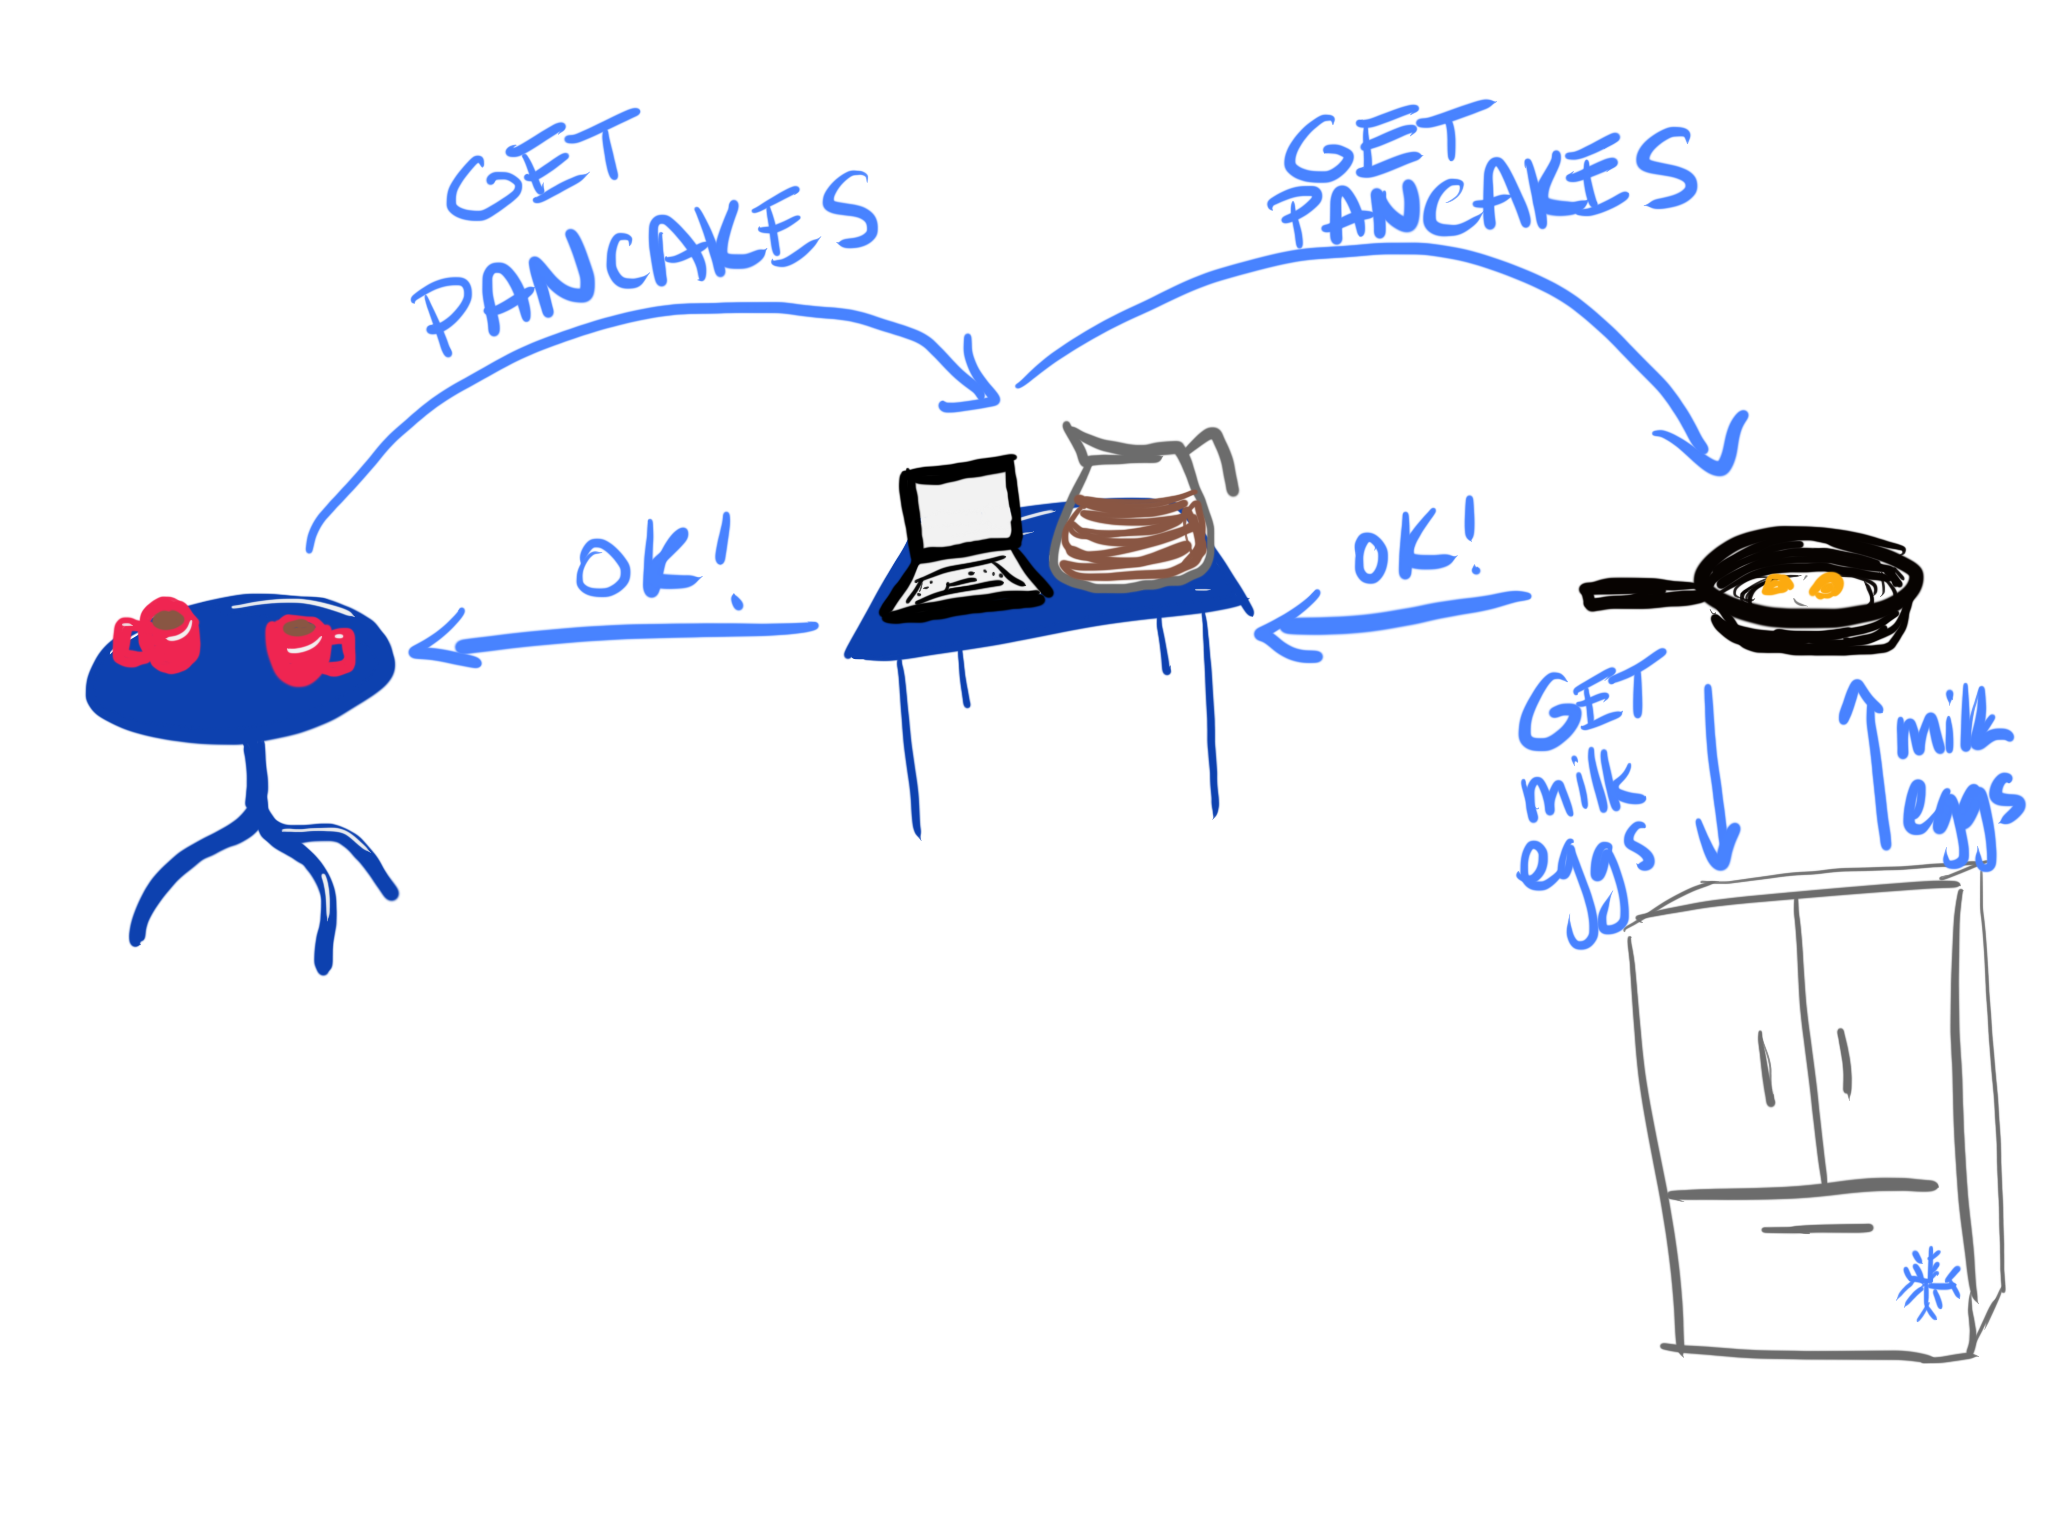
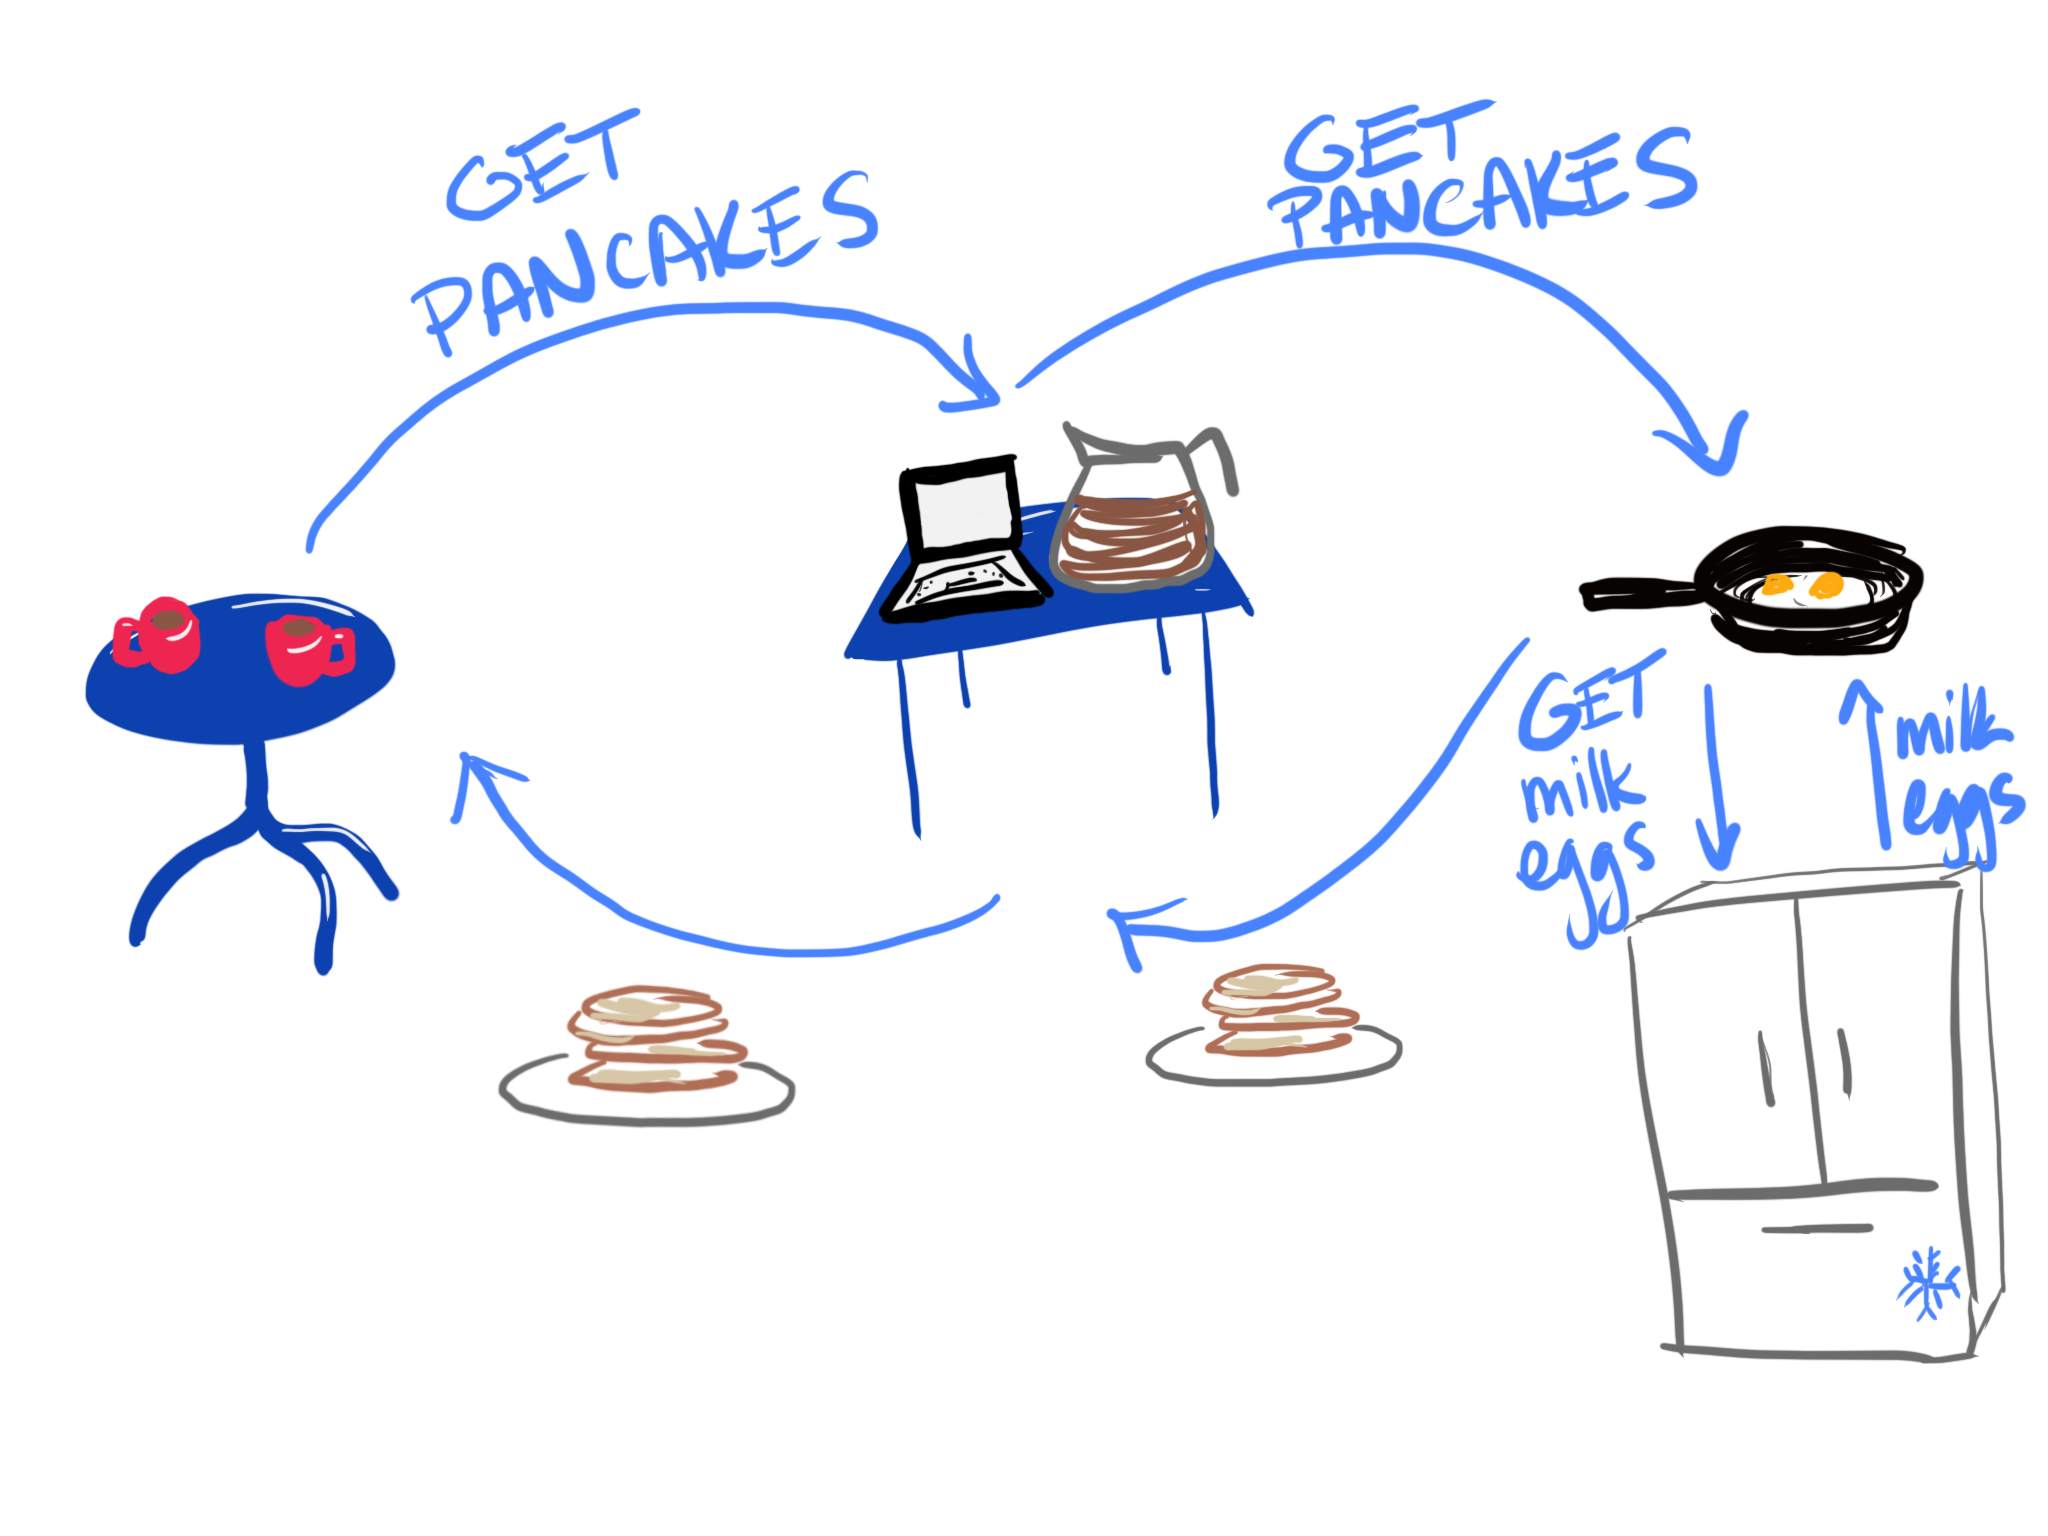
First draft

diff --git a/style.css b/style.css
@@ -491,6 +491,7 @@ table.fixed-two-column td {
 
 li.no-bullet {
   list-style: none;
+  text-indent: -49px;
 }
 
 .dark-highlighter {

diff --git a/index.md b/index.md
@@ -15,6 +15,14 @@ revealOptions:
 
 ---
 
+## hi, i'm sia
+
+[sia.codes](https://sia.codes/)
+
+<img src="./images/champagne_sia.jpg" alt="Sia dressed up as a champagne bottle at Mardi Gras" height="450px" class="no-outline">
+
+---
+
 <img src="./images/Early_Hints1.png" alt="A cafe table on the left with two cups of coffee" class="plain">
 
 ---
@@ -40,10 +48,6 @@ revealOptions:
 ---
 
 <img src="./images/Early_Hints7.png" alt="Arrows from pan to waiter station and then to table both saying 'OK!'" class="plain">
-
----
-
-<img src="./images/Early_Hints8.png" alt="More arrows from pan to waiter station and then to table both with plates of pancakes where the label would be" class="plain">
 
 ---
 
@@ -76,14 +80,6 @@ revealOptions:
 ---
 
 <img src="./images/Early_Hints16.png" alt="Smiley face because we now have hot pancakes and butter at the same time" class="plain">
-
----
-
-## hi, i'm sia
-
-[sia.codes](https://sia.codes/)
-
-<img src="./images/champagne_sia.jpg" alt="Sia dressed up as a champagne bottle at Mardi Gras" height="450px" class="no-outline">
 
 ---
 
@@ -134,6 +130,17 @@ Link: </script.js>; rel=preload; as=script
 
 ---
 
+<!-- .slide: data-background="./images/teamwork.jpg", class="filter-dark"-->
+# Teamwork <!-- .element: class="dark-background highlighter"-->
+
+---
+
+<img class="plain" src="./images/team_EH.png">
+
+Note: Colin Bendell at Shopify, Alex Krivit at Cloudflare and Kenji Baheeux at Chrome
+
+---
+
 <!-- .slide: data-background="./images/oatmeal-fruit.jpg", class="filter-dark"-->
 # Results <!-- .element: class="dark-background highlighter"-->
 
@@ -149,8 +156,10 @@ Link: <https://cdn.shopify.com>; crossorigin; rel="preconnect"
 
 ---
 
+## Largest Contentful Paint
+
 <!-- TODO: Add alts to all images -->
-<img alt="Box plots showing different OS's all with improved LCP performance when Early Hints was used to preconnect to our CDN" class="plain" src="./images/preconnect_LCP.png" width="60%">
+<img alt="Box plots showing different OS's all with improved LCP performance when Early Hints was used to preconnect to our CDN" class="plain" src="./images/preconnect_LCP.png" width="55%">
 
 Note: BFCM 2021 test. LCP improved across all regions and operating systems on Chrome browsers when an early hint was used to preconnect to our CDN domain. ~500ms improvement in median LCP
 
@@ -239,27 +248,29 @@ Note: So what we actually measured was a TTFB degradation unrelated to EH. Which
 
 ---
 
-results
+## 6% improvement in median LCP
+
+- 10 different merchant home pages
+- (TODO: more merchants and page types)
+- High variation within each 9 runs
+- 1 had worse performance
+
+Note:  Etsy recently conducted an experiment using early hints and measured a 2.5% improvement in LCP for landing pages, based on preconnects and font preloads. They are evaluating other ways of implementing to early hints to maximize the performance gains.
 
 ---
 
-<!-- .slide: data-background="./images/water-guns.jpg" -->
-<h1 class="dark-background">
-  <span class="highlighter"> Preload is a footgun </span>
-</h1>
+<!-- .slide: data-background="./images/cappuccino.jpg", class="filter-dark" -->
+# Conclusion <!-- .element: class="dark-background highlighter"-->
 
 ---
 
-<!-- .slide: data-background="./images/water-balloons.jpg" -->
-<h1 class="dark-background">
-  <span class="highlighter"> Early hints preload is a footcannon </span>
-</h1>
+## Conclusion
 
----
-
-<img class="no-outline" src="./images/Jimmie-Durhan-Installation.jpeg" alt="Sculpture of a boulder crushing a car with words crudely pasted over - JS is in large letters over the boulder and 'user just wanting to read a blog post' is in smaller letters over the car'" width="80%">
-
-<small>Original art by [Jimmie Durhan](https://hirshhorn.si.edu/explore/jimmie-durham-still-life-spirit-xitle/), please forgive the meme I created over it</small>
+- ✅ Early Hints is more promising than HTTP2 Server Push <!-- .element: class="fragment fade-in-then-semi-out no-bullet" -->
+- ✅ Preconnect showed promising results <!-- .element: class="fragment fade-in-then-semi-out no-bullet" -->
+- ⚠ Preload is trickier and needs case-by-case testing <!-- .element: class="fragment fade-in-then-semi-out no-bullet" -->
+- ✅ Teamwork makes the dream work <!-- .element: class="fragment fade-in-then-semi-out no-bullet" -->
+- 🧈 Butter hints are better than no butter hints <!-- .element: class="fragment fade-in-then-semi-out no-bullet" -->
 
 ---
 
@@ -280,6 +291,8 @@ results
 - Toast and egg image: Photo by <a href="https://unsplash.com/@shootdelicious?utm_source=unsplash&utm_medium=referral&utm_content=creditCopyText">Eiliv Aceron</a> on <a href="https://unsplash.com/?utm_source=unsplash&utm_medium=referral&utm_content=creditCopyText">Unsplash</a>
 - Rum image: Photo by <a href="https://unsplash.com/@annoand?utm_source=unsplash&utm_medium=referral&utm_content=creditCopyText">Anders Nord</a> on <a href="https://unsplash.com/s/photos/rum?utm_source=unsplash&utm_medium=referral&utm_content=creditCopyText">Unsplash</a>
 - Little girl with hands over eyes: Photo by <a href="https://unsplash.com/@caleb_woods?utm_source=unsplash&utm_medium=referral&utm_content=creditCopyText">Caleb Woods</a> on <a href="https://unsplash.com/s/photos/shame?utm_source=unsplash&utm_medium=referral&utm_content=creditCopyText">Unsplash</a>
+- Teamwork image: Photo by <a href="https://unsplash.com/@hannahbusing?utm_source=unsplash&utm_medium=referral&utm_content=creditCopyText">Hannah Busing</a> on <a href="https://unsplash.com/s/photos/team-work?utm_source=unsplash&utm_medium=referral&utm_content=creditCopyText">Unsplash</a>
+- Cappuccino: Photo by <a href="https://unsplash.com/@jeztimms?utm_source=unsplash&utm_medium=referral&utm_content=creditCopyText">Jez Timms</a> on <a href="https://unsplash.com/?utm_source=unsplash&utm_medium=referral&utm_content=creditCopyText">Unsplash</a>
 
 - Water gun fight is licensed through Unsplash+
 
@@ -297,3 +310,9 @@ results
 <small>[Responsive Doggos Demo](https://projects.sia.codes/responsive-images-demo/)</small>
 
 Note: Raster file formats are really just different compression methods. **SVG**: Can style and animate with CSS or make basic edits in XML. **GIF**: huge file sizes for animation, use video instead. svg or jpg are better for stills. Twitter converts GIF to video. **PNG**: Use jpg if don't need transparency. **JPG**: much better compression algos.
+
+---
+
+```
+--disable-features=EarlyHintsPreloadForNavigation
+```
